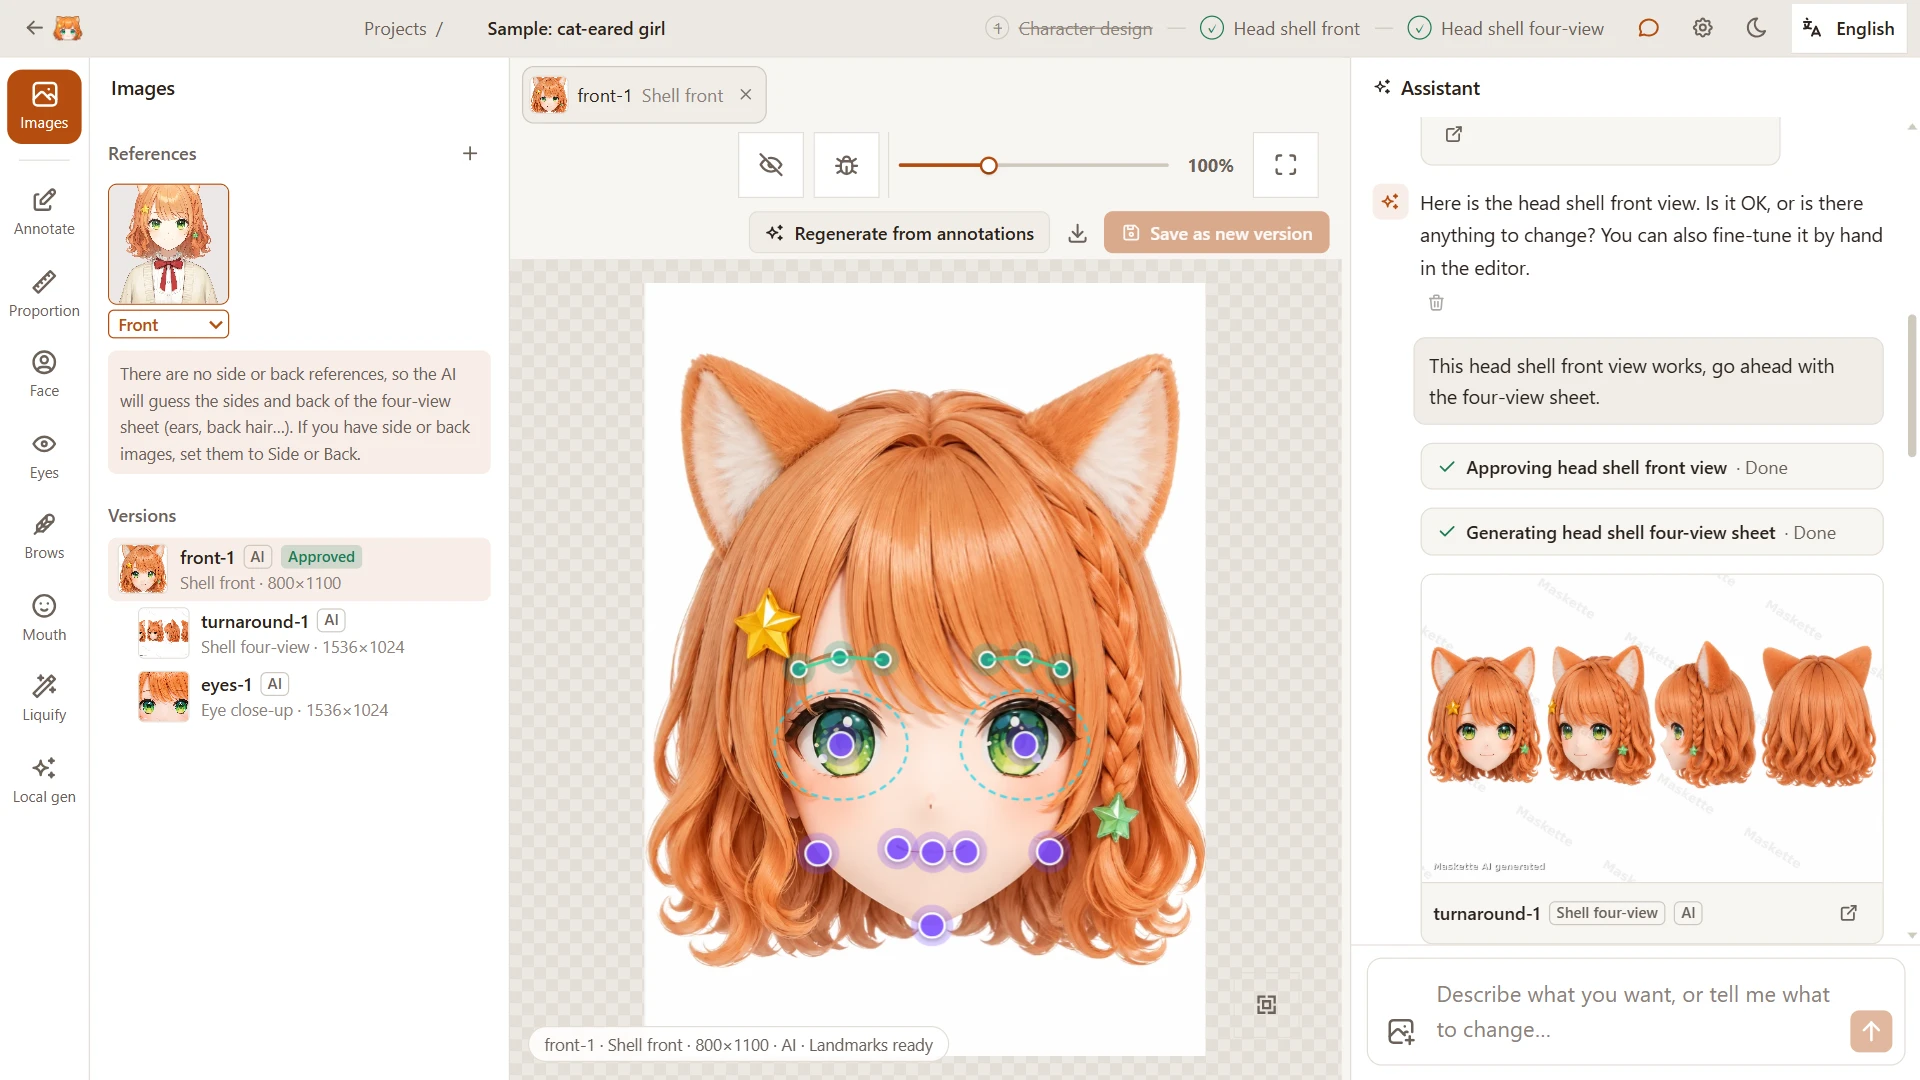
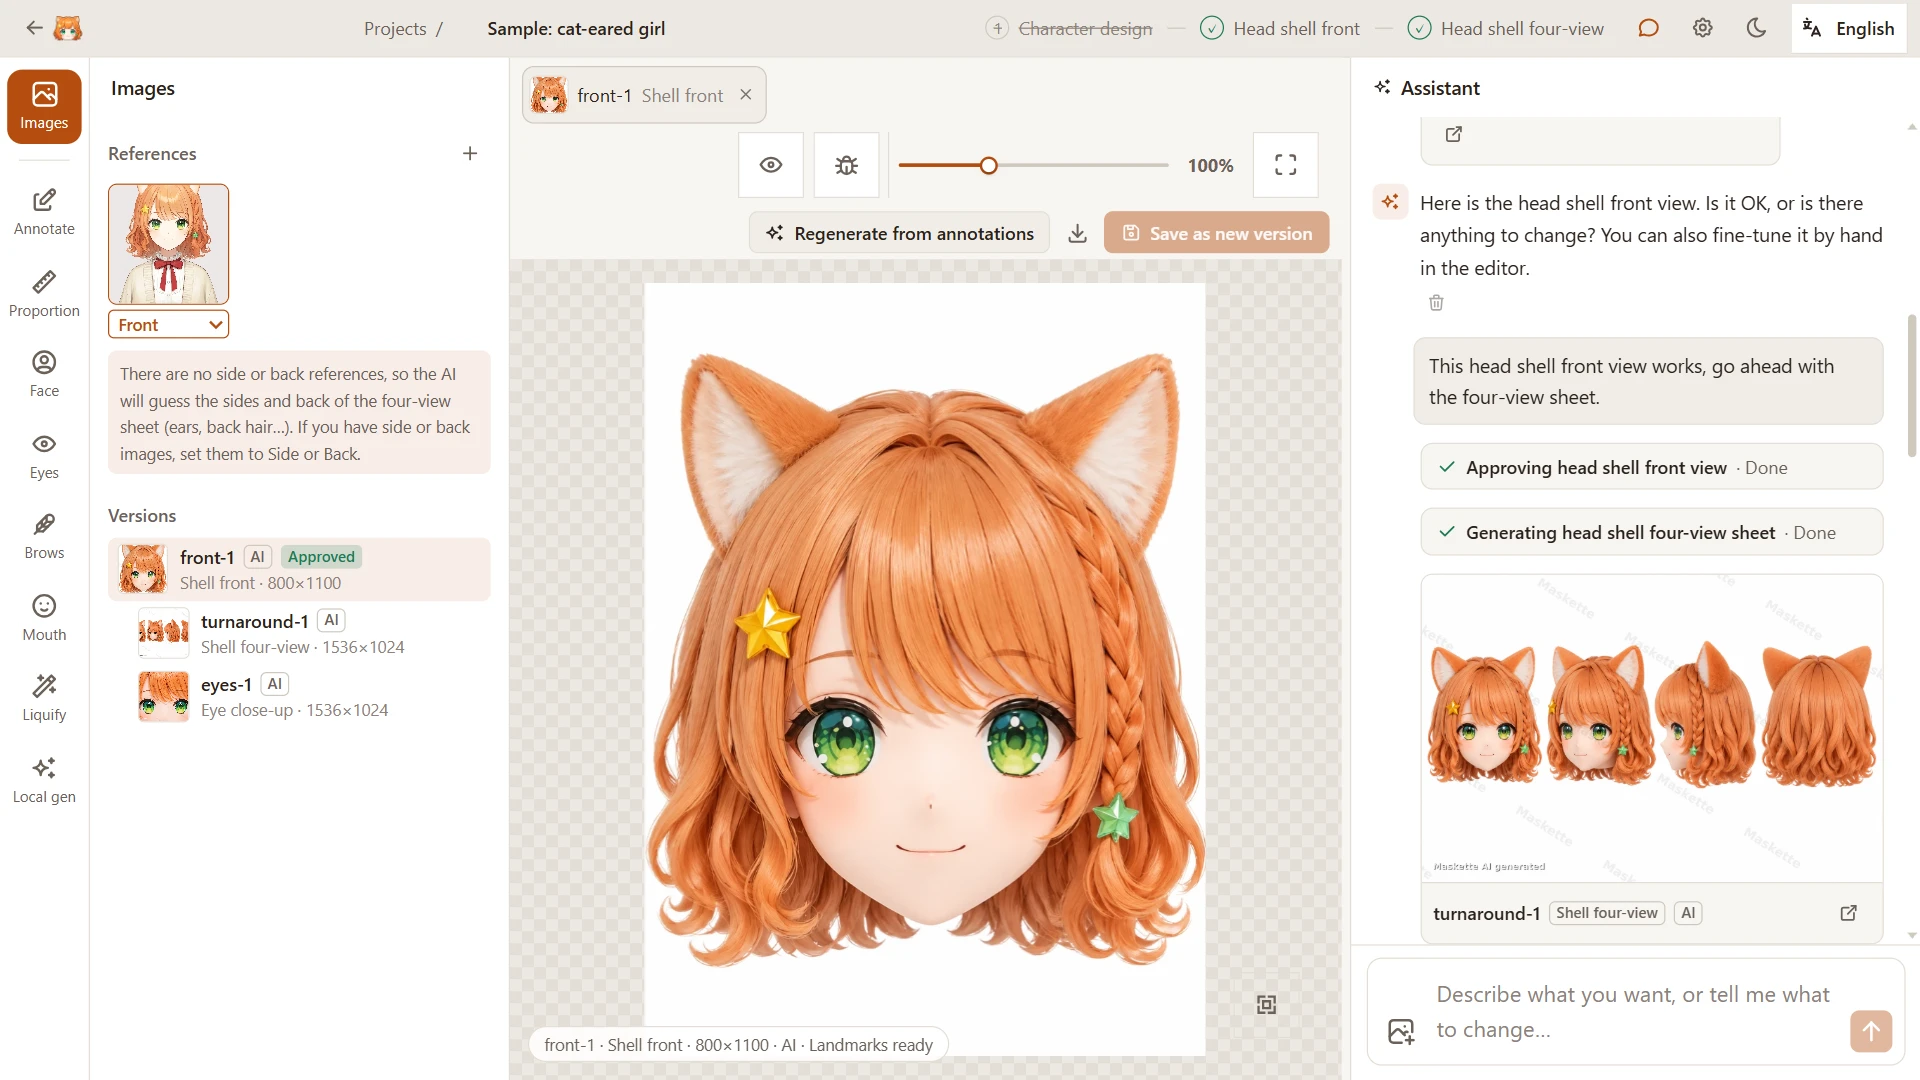
docs: show the sample's face without landmark marks in the READMEs
The workspace picture at the top of each README showed the editor's
landmark marks (dots, lines and eye circles) over the head shell's face.
It is the first picture people see, and the marks hid the face the app is
about. `pnpm screenshots` now turns them off with the editor's eye button
before taking that picture, and the three workspace pictures are retaken.
The other six come out byte for byte the same.

diff --git a/frontend/vrt/readme-screenshots.ts b/frontend/vrt/readme-screenshots.ts
@@ -134,6 +134,17 @@ async function openVersion(page: Page, version: Version) {
     .catch(() => {});
 }
 
+/**
+ * Turns off the landmark marks the editor draws over a face it has found (the eye button in its toolbar), so the
+ * picture shows the face itself.
+ */
+async function hideLandmarks(page: Page) {
+  const stage = page.getByTestId("landmark-stage");
+  if ((await stage.count()) === 0) return;
+  await page.getByTestId("landmark-visibility-toggle").click();
+  await stage.waitFor({ state: "detached", timeout: 10_000 });
+}
+
 /** Scrolls the chat so `card` sits at `block` of the visible part. */
 async function showInChat(card: Locator, block: "start" | "center" | "end") {
   await card.evaluate((element, where) => element.scrollIntoView({ block: where }), block);
@@ -165,6 +176,7 @@ async function shoot(page: Page, locale: Locale) {
   const card = (version: Version) => page.locator(".ide-agent-scroll .agent-image-card").nth(VERSIONS.indexOf(version));
 
   await openVersion(page, "front-1");
+  await hideLandmarks(page);
   await showInChat(card("turnaround-1"), "end");
   await settle(page);
   await capture(cdp, `workspace-${locale}`);
